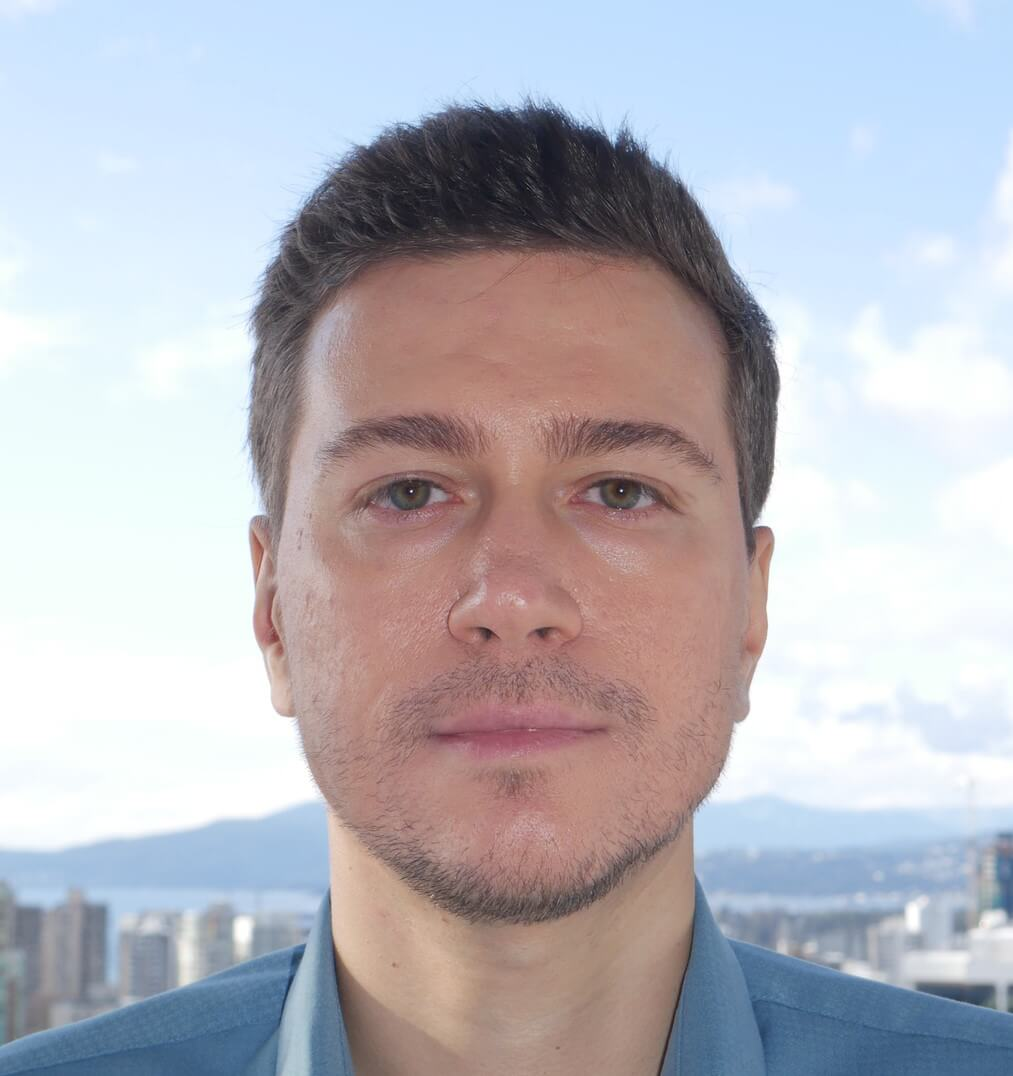
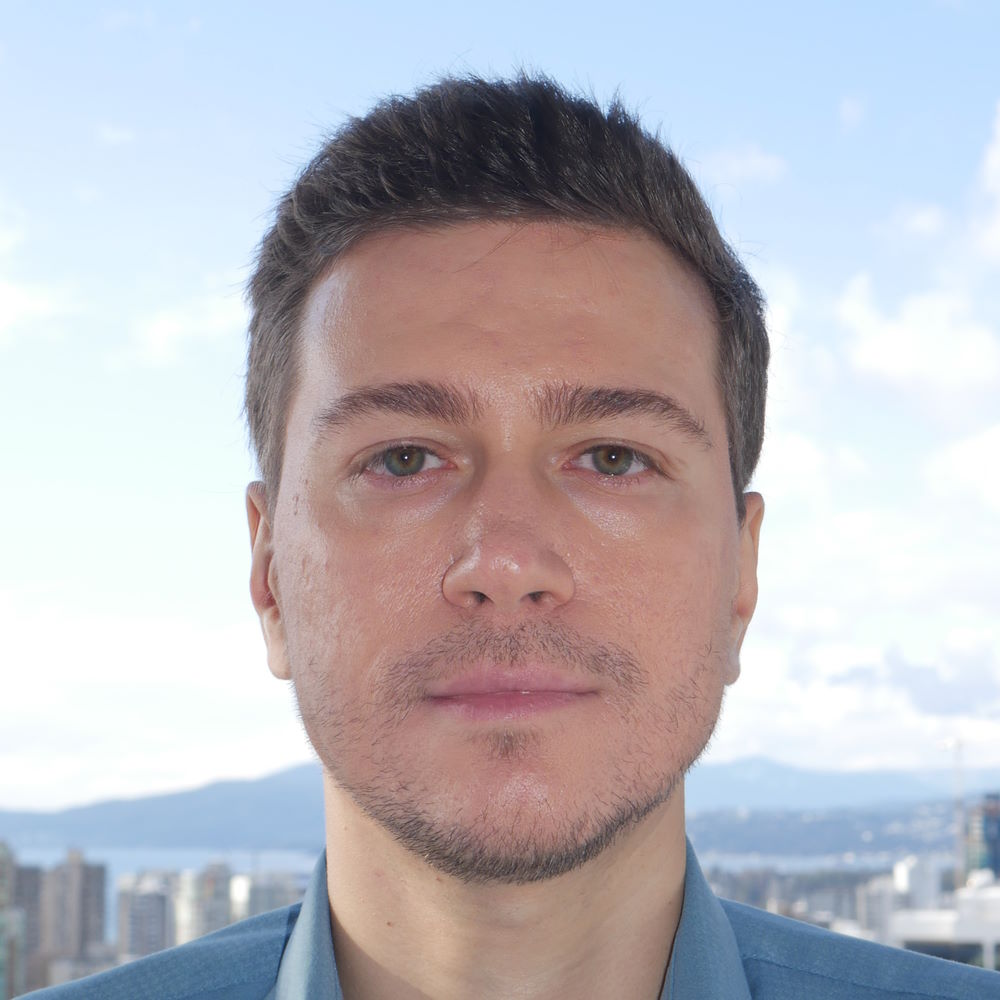
Replace my photo and fix photo jitters when the app is loading

diff --git a/src/components/navigation/Navigation.tsx b/src/components/navigation/Navigation.tsx
@@ -8,7 +8,7 @@ export default function Navigation() {
 
   return (
     <nav className="basis-56 grow-0 bg-slate-700 flex-col justify-center items-center align-middle">
-      <img src="/my_photo.jpg" alt="my photo" />
+      <img src="/my_photo.jpg" alt="my photo" className="w-full aspect-square object-cover" />
       <div className="p-2 bg-cyan-600 font-mono text-lg font-bold text-slate-100 text-center">Alexander Zagriychuk</div>
 
       <ul>
